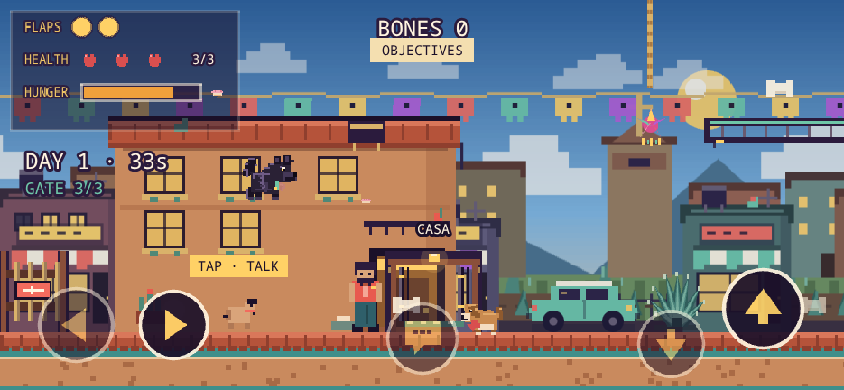
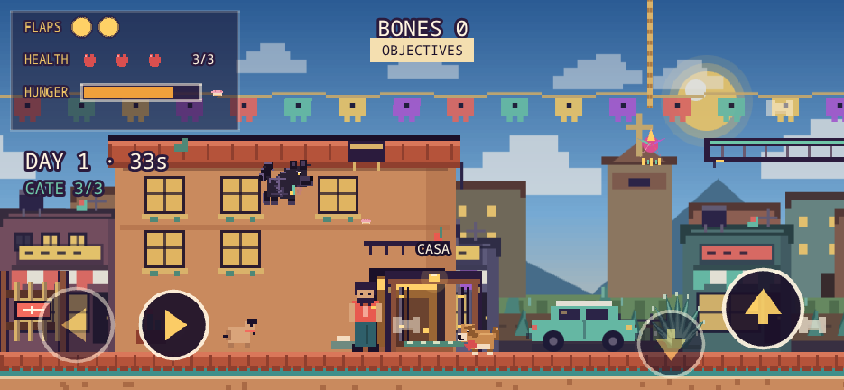
Fix mobile dive button input mapping

diff --git a/src/scenes/Level1.js b/src/scenes/Level1.js
@@ -340,6 +340,7 @@ export default class Level1 extends Phaser.Scene {
   applyLayout(W) {
     if (this.sky) this.sky.setPosition(W / 2, 72 * S).setDisplaySize(W, 144 * S);
     if (this.sun) this.sun.x = W - 51 * S;
+    if (this.moon) this.moon.x = W * 0.74;
     this.cloudsFar?.setSize(W, 64 * S);
     this.cloudsNear?.setSize(W, 64 * S);
     this.town?.setSize(W, 100 * S);
@@ -456,6 +457,13 @@ export default class Level1 extends Phaser.Scene {
       .setScrollFactor(0.04)
       .setDepth(-29)
       .setAlpha(0.95);
+
+    this.moon = this.add
+      .image(W * 0.74, 48 * S, 'moon')
+      .setScrollFactor(0.04)
+      .setDepth(61)
+      .setAlpha(0)
+      .setVisible(false);
 
     this.cloudsFar = this.add
       .tileSprite(0, 8 * S, W, 64 * S, 'cloudsFar')
@@ -2255,6 +2263,20 @@ export default class Level1 extends Phaser.Scene {
     this.poloIcon?.setVisible(false);
     this.bellIcon?.setVisible(false);
 
+    this.tweens.killTweensOf([this.sun, this.moon]);
+    this.tweens.add({
+      targets: this.sun,
+      alpha: 0,
+      duration: 500,
+      onComplete: () => this.sun?.setVisible(false),
+    });
+    this.moon.setVisible(true).setAlpha(0);
+    this.tweens.add({
+      targets: this.moon,
+      alpha: 0.96,
+      duration: 900,
+    });
+
     this.tweens.add({
       targets: this.nightOverlay,
       alpha: 0.45,
@@ -2307,6 +2329,20 @@ export default class Level1 extends Phaser.Scene {
     this.bellRung = false;
     this.poloIcon?.setVisible(true);
     this.bellIcon?.setVisible(true);
+
+    this.tweens.killTweensOf([this.sun, this.moon]);
+    this.tweens.add({
+      targets: this.moon,
+      alpha: 0,
+      duration: 500,
+      onComplete: () => this.moon?.setVisible(false),
+    });
+    this.sun.setVisible(true).setAlpha(0);
+    this.tweens.add({
+      targets: this.sun,
+      alpha: 0.95,
+      duration: 900,
+    });
 
     this.tweens.add({
       targets: this.nightOverlay,

diff --git a/src/art.js b/src/art.js
@@ -53,6 +53,7 @@ export function buildTextures(scene) {
 
   makeSky(scene);
   makeSun(scene);
+  makeMoon(scene);
   makeCloudBand(scene, 'cloudsFar', 5, 1, 1337);
   makeCloudBand(scene, 'cloudsNear', 3, 2, 4242);
   makeTown(scene);
@@ -157,11 +158,36 @@ function makeSky(scene) {
 
 function makeSun(scene) {
   const g = gfx(scene);
+  g.fillStyle(GOLD, 0.14);
+  g.fillCircle(24, 24, 17);
+  g.fillStyle(GOLD, 0.32);
+  g.fillCircle(24, 24, 14);
   g.fillStyle(GOLD, 1);
   g.fillCircle(24, 24, 11);
   g.fillStyle(CREAM, 1);
   g.fillCircle(20, 20, 4);
   g.generateTexture('sun', 48, 48);
+  g.destroy();
+}
+
+function makeMoon(scene) {
+  const g = gfx(scene);
+
+  // soft halo, then a pale full moon with a cool rim and a few craters
+  g.fillStyle(0x8f7ca8, 0.16);
+  g.fillCircle(24, 24, 21);
+  g.fillStyle(0xfff4e0, 1);
+  g.fillCircle(24, 24, 16);
+  g.fillStyle(0xf3dfb7, 1);
+  g.fillCircle(20, 20, 7);
+  g.fillCircle(30, 28, 5);
+  g.fillStyle(0xd9c8b0, 1);
+  g.fillCircle(18, 27, 3);
+  g.fillCircle(28, 16, 2.5);
+  g.lineStyle(1, 0xb9a9c8, 0.65);
+  g.strokeCircle(24, 24, 16);
+
+  g.generateTexture('moon', 48, 48);
   g.destroy();
 }
 

diff --git a/src/ui/TouchControls.js b/src/ui/TouchControls.js
@@ -128,6 +128,9 @@ export default class TouchControls {
     if (name === 'jump') {
       if (!this.state.jumpHeld) this.jumpQueued = true;
       this.state.jumpHeld = true;
+    } else if (name === 'dive') {
+      // Dog reads this as its held down input.
+      this.state.down = true;
     } else {
       this.state[name] = true;
     }
@@ -138,6 +141,7 @@ export default class TouchControls {
 
   release(name) {
     if (name === 'jump') this.state.jumpHeld = false;
+    else if (name === 'dive') this.state.down = false;
     else this.state[name] = false;
 
     const img = this.buttons[name];
@@ -193,6 +197,7 @@ export default class TouchControls {
     this.state.left = false;
     this.state.right = false;
     this.state.down = false;
+    this.state.dive = false;
     this.state.jumpHeld = false;
     this.jumpQueued = false;
     this.interactQueued = false;

diff --git a/README.md b/README.md
@@ -180,7 +180,7 @@ there to make them permanent.
 - Two flaps, glide, dive — each with its own animation pose
 - Walk cycle (4-frame), denser 40×40 hero sprite; sits and pants after a short standing beat when idle
 - **Health (3 hearts) + hunger bar**, concha pickups, dawn healing
-- **Day/night cycle**: scavenge by day, survive waves of rival dogs at night
+- **Day/night cycle**: scavenge under the sun, survive waves of rival dogs under the moon
 - **Blue-Hour La Cuadra art direction**: limited folk-print palette, lotería-style title/end cards and papel picado trim
 - **Ambient wildlife**: day birds, a dawn rooster, alley cats, and a night shift of skunks, hooting owls and bats
 - **Objectives panel (O)** for the current goal, Polo/bell errands and a description of each HUD meter
@@ -291,6 +291,7 @@ files):
 | `awning` | 120×36 | striped bounce canopy |
 | `bone` | 30×24 | |
 | `concha` | 18×12 | hunger pickup |
+| `sun` / `moon` | 144×144 | day sun and night moon |
 | `heart` | 15×15 | health HUD |
 | `bonjoHouse` | 390×240 | two-storey home behind the CASA gateway |
 | `ring` | 48×48 | |

diff --git a/DESIGN.md b/DESIGN.md
@@ -308,8 +308,8 @@ Rules:
 - Every interactive object gets a warm accent: piñata pink/gold, awning
   coral/cream, ring gold, concha pink.
 - Black chow always carries a lavender rim light so he reads against dark walls.
-- At night the sky goes near-black while the windows stay lit; the HUD stays
-  bright above the overlay.
+- At night the sky goes near-black while the windows stay lit; the sun sets,
+  a pale cratered moon rises above the darkness, and the HUD stays bright.
 - Title/end screens use paper lotería cards with ink borders, corner stamps and
   papel-picado strings.
 - Friendly NPC dialog uses the same paper card, with the speaker's name in an
